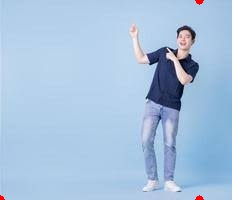
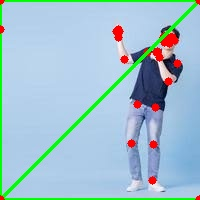
code 3_2

Changed region(s): [[0.0, 0.0, 1.0, 1.0]]

diff --git a/3_2/predict_image.py b/3_2/predict_image.py
@@ -1,41 +1,42 @@
-# predict_image.py (enhanced version)
 import cv2
 import torch
 import numpy as np
 import mediapipe as mp
 from model import PoseEstimator
-from visualize import draw_3d_pose
+from visualize import draw_3d_pose  # Assumes this draws skeleton on image
 
-# Load trained model
-model = PoseEstimator()
-model.load_state_dict(torch.load("model_weights.pth", map_location=torch.device('cuda' if torch.cuda.is_available() else 'cpu')))
-model.eval().cuda()
+# === Setup device
+device = torch.device('cuda' if torch.cuda.is_available() else 'cpu')
 
-# Initialize MediaPipe pose detector
+# === Load trained model
+model = PoseEstimator().to(device)
+model.load_state_dict(torch.load("model_weights.pth", map_location=device))
+model.eval()
+
+# === MediaPipe Pose
 mp_pose = mp.solutions.pose
 pose = mp_pose.Pose(static_image_mode=True)
 
-# Load and center image
-image_path = "input.jpg"  # change to your input image path
+# === Load and center image
+image_path = "input.jpeg"  # change if needed
 frame = cv2.imread(image_path)
 h, w = frame.shape[:2]
 size = min(h, w)
 centered_frame = frame[(h - size) // 2:(h + size) // 2, (w - size) // 2:(w + size) // 2]
 frame_rgb = cv2.cvtColor(centered_frame, cv2.COLOR_BGR2RGB)
 
-# Detect 2D keypoints
+# === Detect 2D keypoints
 results = pose.process(frame_rgb)
 
-# Prepare edge index
+# === Create edge index
 def create_edge_index(num_joints=28):
-    edges = []
-    for i in range(num_joints - 1):
-        edges.append([i, i+1])
-    return torch.tensor(edges + [list(reversed(e)) for e in edges], dtype=torch.long).t().contiguous()
+    edges = [[i, i+1] for i in range(num_joints - 1)]
+    edges += [list(reversed(e)) for e in edges]
+    return torch.tensor(edges, dtype=torch.long).t().contiguous()
 
-edge_index = create_edge_index().cuda()
+edge_index = create_edge_index().to(device)
 
-# If keypoints detected
+# === If keypoints detected
 if results.pose_landmarks:
     landmarks = results.pose_landmarks.landmark
     if len(landmarks) < 28:
@@ -44,21 +45,27 @@ if results.pose_landmarks:
 
     keypoints_2d = np.array([[lm.x, lm.y] for lm in landmarks])[:28]
 
-    # Draw 2D keypoints for debugging
+    # Draw 2D keypoints for visual debugging
     for pt in keypoints_2d:
         x = int(pt[0] * size)
         y = int(pt[1] * size)
         cv2.circle(centered_frame, (x, y), 4, (0, 0, 255), -1)
 
-    # Normalize keypoints for model
-    keypoints_2d = (keypoints_2d - keypoints_2d.mean()) / (keypoints_2d.std() + 1e-6)
-    input_tensor = torch.tensor(keypoints_2d, dtype=torch.float32).unsqueeze(0).cuda()
+    # === Normalize keypoints
+    mean = keypoints_2d.mean(axis=0)
+    std = keypoints_2d.std(axis=0)
+    normed_kps = (keypoints_2d - mean) / (std + 1e-6)
+
+    # === Prepare input
+    input_tensor = torch.tensor(np.concatenate([normed_kps, np.zeros((28,1))], axis=1), dtype=torch.float32)
+    input_tensor = input_tensor.unsqueeze(0).to(device)
 
     with torch.no_grad():
-        out_3d = model(input_tensor, edge_index.unsqueeze(0))
-        out_3d = out_3d.squeeze(0).cpu().numpy()
+        out_3d = model(input_tensor, edge_index.unsqueeze(0)).squeeze(0).cpu().numpy()
 
-    draw_3d_pose(centered_frame, out_3d)
+    # === Draw and show/save output
+    draw_3d_pose(centered_frame, out_3d, image_dims=(centered_frame.shape[1], centered_frame.shape[0]), draw_head=True)
+
     cv2.imshow("3D Pose Output", centered_frame)
     cv2.imwrite("output.jpg", centered_frame)
     print("✅ Saved output to output.jpg")

diff --git a/3_2/visualize.py b/3_2/visualize.py
@@ -1,41 +1,58 @@
-# visualize.py
 import cv2
 import numpy as np
 
-# Define skeleton connections (simple chain)
+# === Define skeleton edges (MediaPipe 28 subset + optional head/face)
 SKELETON_EDGES = [
-    (0, 1), (1, 2), (2, 3), (3, 4),
-    (1, 5), (5, 6), (6, 7),
-    (1, 8), (8, 9), (9, 10), (10, 11),
-    (8, 12), (12, 13), (13, 14),
+    (11, 12),             # Shoulders
+    (11, 13), (13, 15),   # Left Arm
+    (12, 14), (14, 16),   # Right Arm
+    (11, 23), (12, 24),   # Torso to hips
+    (23, 25), (25, 27),   # Left Leg
+    (24, 26), (26, 28),   # Right Leg
+    # Optional head/face (safe)
     (0, 15), (0, 16), (15, 17), (16, 18)
 ]
 
-# Colors
-EDGE_COLOR = (0, 255, 0)
-JOINT_COLOR = (0, 0, 255)
 
-# Image dimensions
+# === Colors
+EDGE_COLOR = (0, 255, 0)   # Green lines
+JOINT_COLOR = (0, 0, 255)  # Red dots
+
+# === Output image size (rescale projection)
 IMG_WIDTH, IMG_HEIGHT = 640, 480
 
 
-def draw_3d_pose(frame, joints_3d):
+def draw_3d_pose(frame, joints_3d, image_dims=(IMG_WIDTH, IMG_HEIGHT), draw_head=True):
     """
-    Projects 3D joints onto the 2D image and draws connections
+    Projects 3D joint coordinates to 2D and draws them on the frame.
+    :param frame: The input image
+    :param joints_3d: (N, 3) array of 3D joint coordinates
+    :param image_dims: Target image dimensions (W, H) for projection
+    :param draw_head: Whether to draw optional head/face lines
+    :return: Modified frame
     """
-    joints_2d = joints_3d[:, :2] * np.array([IMG_WIDTH, IMG_HEIGHT])  # Normalize to image size
-    joints_2d = joints_2d.astype(int)
+    w, h = image_dims
+
+    if joints_3d.shape[1] < 2:
+        raise ValueError("Expected 2D or 3D joint coordinates.")
+
+    # === Project 3D to 2D using (x, y) scaled to image size
+    joints_2d = joints_3d[:, :2] * np.array([w, h])
     joints_2d = np.nan_to_num(joints_2d, nan=0.0, posinf=0.0, neginf=0.0)
-    joints_2d = np.clip(joints_2d, 0, min(frame.shape[1]-1, frame.shape[0]-1))
+    joints_2d = np.clip(joints_2d, 0, min(frame.shape[1] - 1, frame.shape[0] - 1))
     joints_2d = joints_2d.astype(int)
 
+    # === Select which edges to draw
+    edges_to_draw = SKELETON_EDGES if draw_head else [e for e in SKELETON_EDGES if max(e) < 23]
 
-    for i, j in SKELETON_EDGES:
+    # === Draw bones
+    for i, j in edges_to_draw:
         if i < len(joints_2d) and j < len(joints_2d):
             pt1 = tuple(joints_2d[i])
             pt2 = tuple(joints_2d[j])
             cv2.line(frame, pt1, pt2, EDGE_COLOR, 2)
 
+    # === Draw joints
     for pt in joints_2d:
         cv2.circle(frame, tuple(pt), 4, JOINT_COLOR, -1)
 
